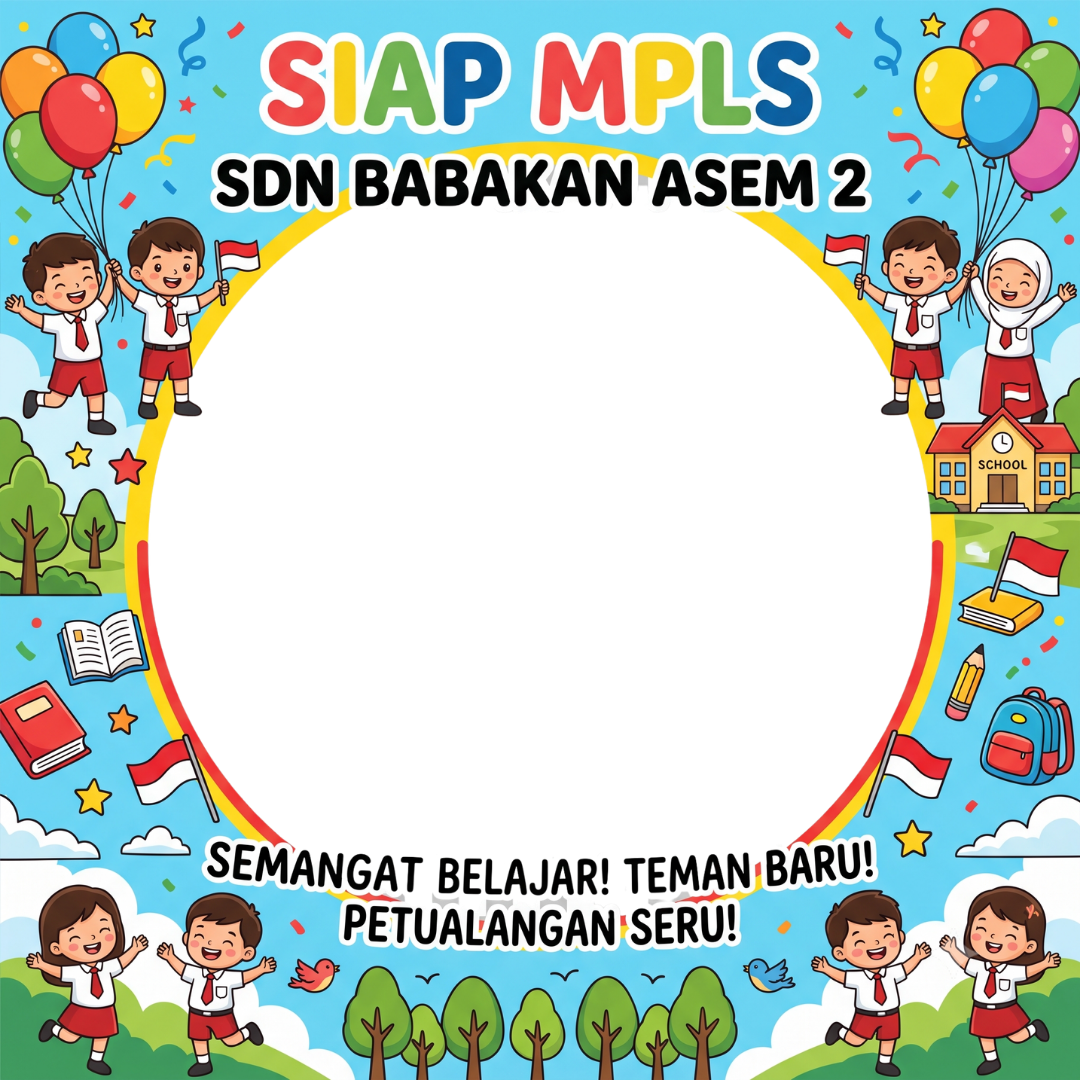
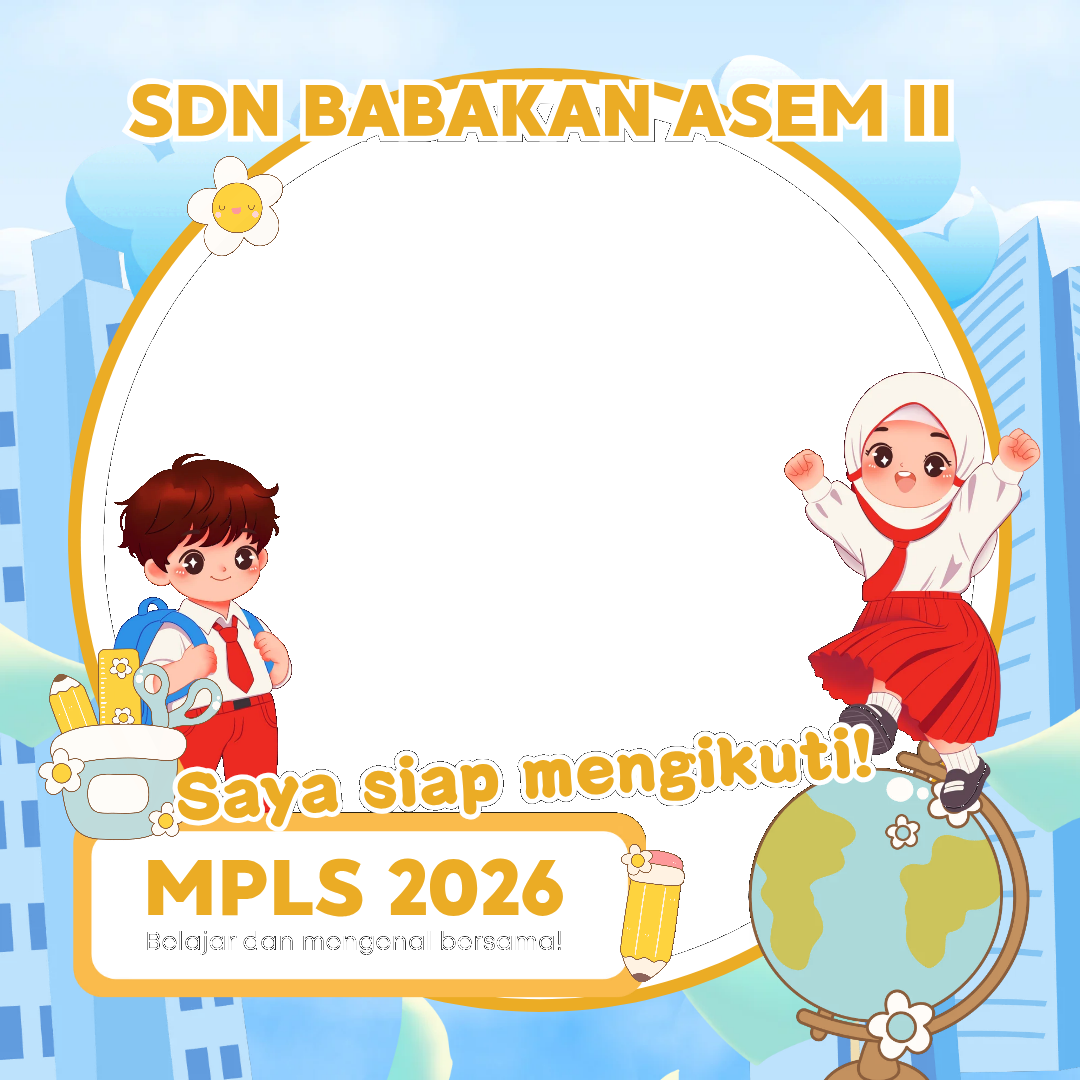
busting javascript

diff --git a/index.html b/index.html
@@ -9,7 +9,7 @@
     <link href="https://fonts.googleapis.com/css2?family=Plus+Jakarta+Sans:wght@400;600;700&display=swap" rel="stylesheet">
     <link rel="stylesheet" href="https://cdnjs.cloudflare.com/ajax/libs/font-awesome/6.4.0/css/all.min.css">
     
-    <link rel="stylesheet" href="style.css">
+    <link rel="stylesheet" href="style.css?v=2.0">
 </head>
 <body>
 
@@ -59,6 +59,6 @@
     </div>
 
     <script src="https://cdnjs.cloudflare.com/ajax/libs/fabric.js/5.3.1/fabric.min.js"></script>
-    <script src="script.js"></script>
+    <script src="script.js?v=2.0"></script>
 </body>
 </html>